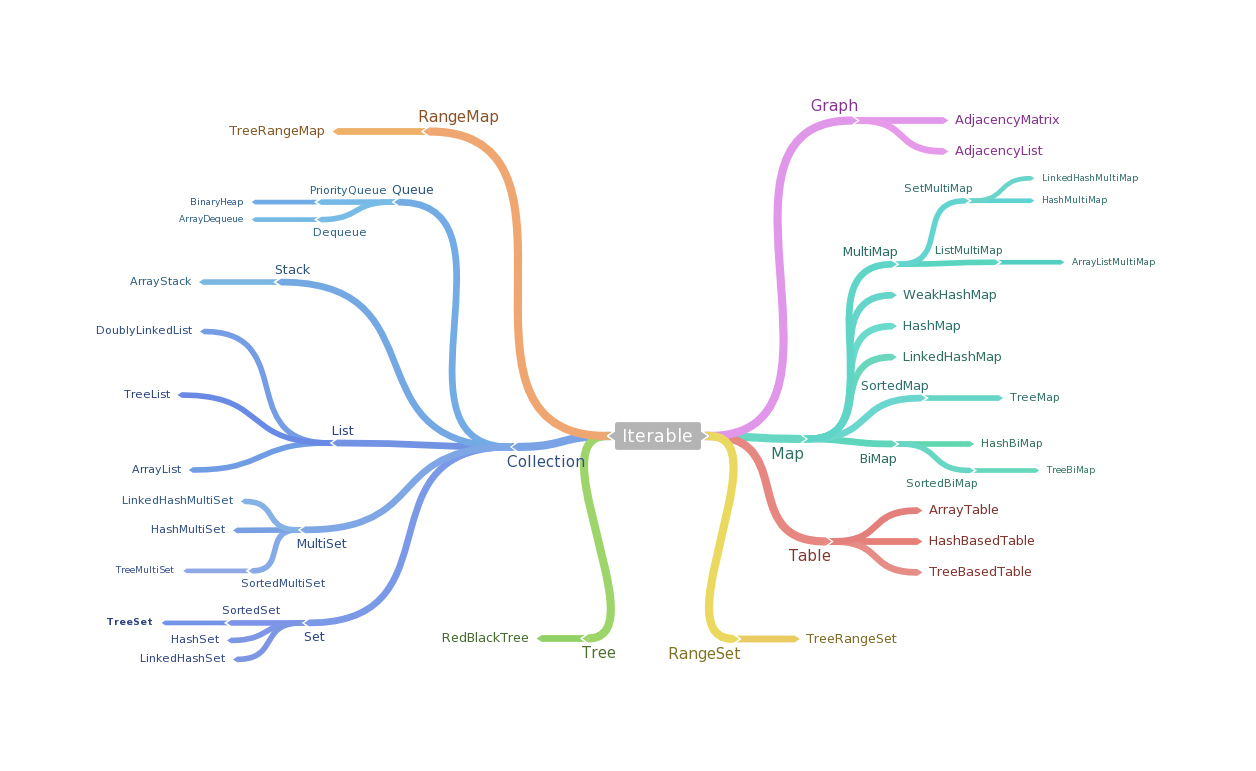
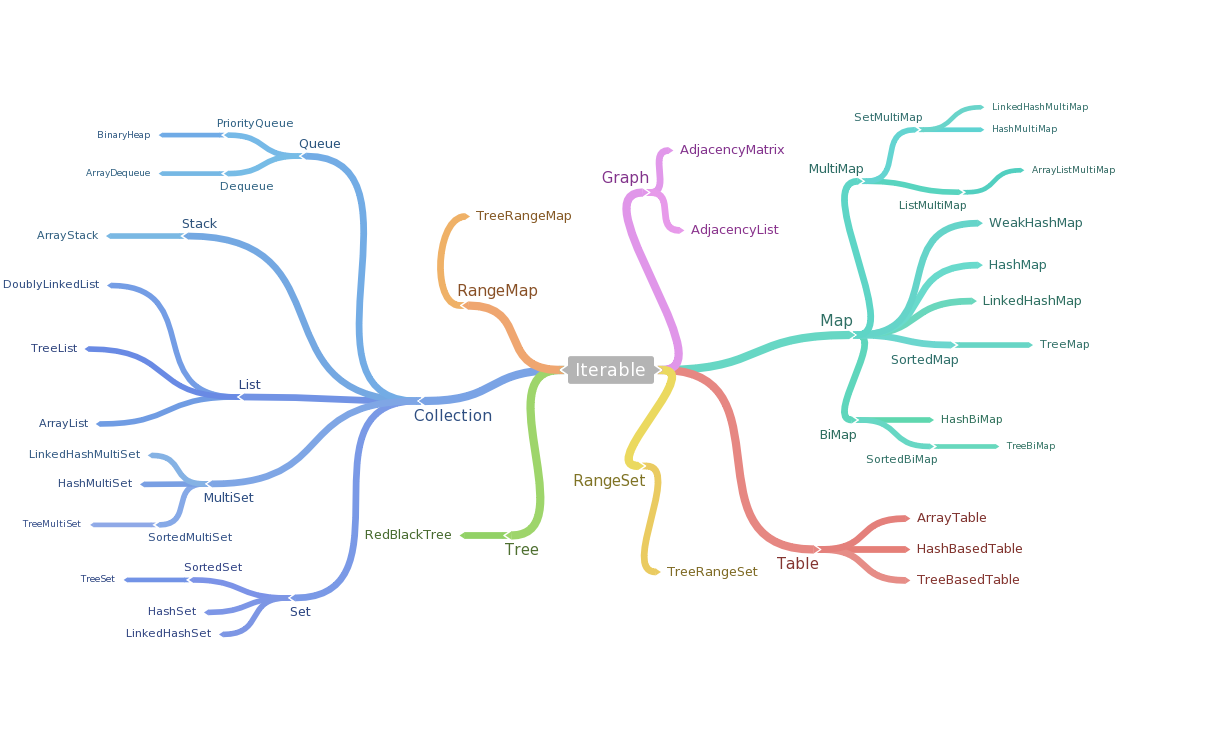
Move css to separate file change fluid to fixed add proper title reorganize link hrefs remove fixed height for collections update collections image to be centered, and reflect new design.

Changed region(s): [[0.0, 0.1233, 0.9048, 0.8633]]

diff --git a/index.html b/index.html
@@ -1,56 +1,16 @@
-<!doctype html>
+<!DOCTYPE html>
 <html>
 <head>
-    <title>D</title>
+    <title>Data Structures for TypeScript and JavaScript</title>
     <meta name="viewport" content="width=device-width">
-    <link rel="stylesheet" href="//netdna.bootstrapcdn.com/bootstrap/3.1.1/css/bootstrap.min.css"/>
-    <link rel="stylesheet" href="//cdn.jsdelivr.net/flat-ui/2.0/css/flat-ui.css"/>
+    <link href="//netdna.bootstrapcdn.com/bootstrap/3.1.1/css/bootstrap.min.css" rel='stylesheet' type='text/css'/>
+    <link href="//cdn.jsdelivr.net/flat-ui/2.0/css/flat-ui.css" rel='stylesheet' type='text/css'/>
+    <link href="//cdn.jsdelivr.net/flat-ui/2.0/css/flat-ui.css" rel='stylesheet' type='text/css'/>
     <link href='//fonts.googleapis.com/css?family=Alegreya' rel='stylesheet' type='text/css'>
-    <style type="text/css">
-        body {
-            padding-top: 20px;
-            font-family: Alegreya;
-            font-size: 32pt;
-        }
-
-        .header {
-            font-size: 60pt;
-            text-align: center;
-            background-color: transparent;
-        }
-
-        .marketing-column {
-        }
-
-        .marketing-column h2 {
-            padding-bottom: .5em;
-            color: #2980B9;
-            font-size: 40pt;
-        }
-
-        .marketing-column div.background {
-            background-color: #ECF0F1;
-            padding: 1em;
-        }
-
-        /* Responsive: Portrait tablets and up */
-        @media screen and (min-width: 768px) {
-            /* Remove the padding we set earlier */
-            .masthead,
-            .marketing,
-            .footer {
-                padding-left: 0;
-                padding-right: 0;
-            }
-        }
-    </style>
+    <link href='styles/main.css' rel='stylesheet' type='text/css'>
 </head>
 <body>
-
-<div class="container-fluid">
-
-    <!-- Jumbotron -->
-
+<div class="container">
 
     <div class="row">
         <div class="col-lg-12">
@@ -62,7 +22,7 @@
 
     <div class="row">
         <div class="col-lg-12">
-            <img class="center-block" height="1300" src="images/collections.png"/>
+            <img class="center-block" src="images/collections.png"/>
         </div>
     </div>
 
@@ -107,15 +67,8 @@
                 </ul>
             </div>
         </div>
-
     </div>
 
 </div>
-<!-- /container -->
-
-<!--
-<script src="//ajax.googleapis.com/ajax/libs/jquery/2.0.3/jquery.min.js" type="text/javascript"></script>
-<script src="//netdna.bootstrapcdn.com/bootstrap/3.1.1/js/bootstrap.min.js" type="text/javascript"></script>
--->
 </body>
 </html>

diff --git a/styles/main.css b/styles/main.css
@@ -1,0 +1,20 @@
+body {
+    font-family: Alegreya;
+}
+
+.header {
+    font-size: 6em;
+    text-align: center;
+}
+
+.marketing-column h2 {
+    margin-bottom: 1em;
+    color: #2980B9;
+    font-size: 40pt;
+}
+
+.marketing-column div.background {
+    background-color: #ECF0F1;
+    padding: 1em;
+    font-size: 2em;
+}
